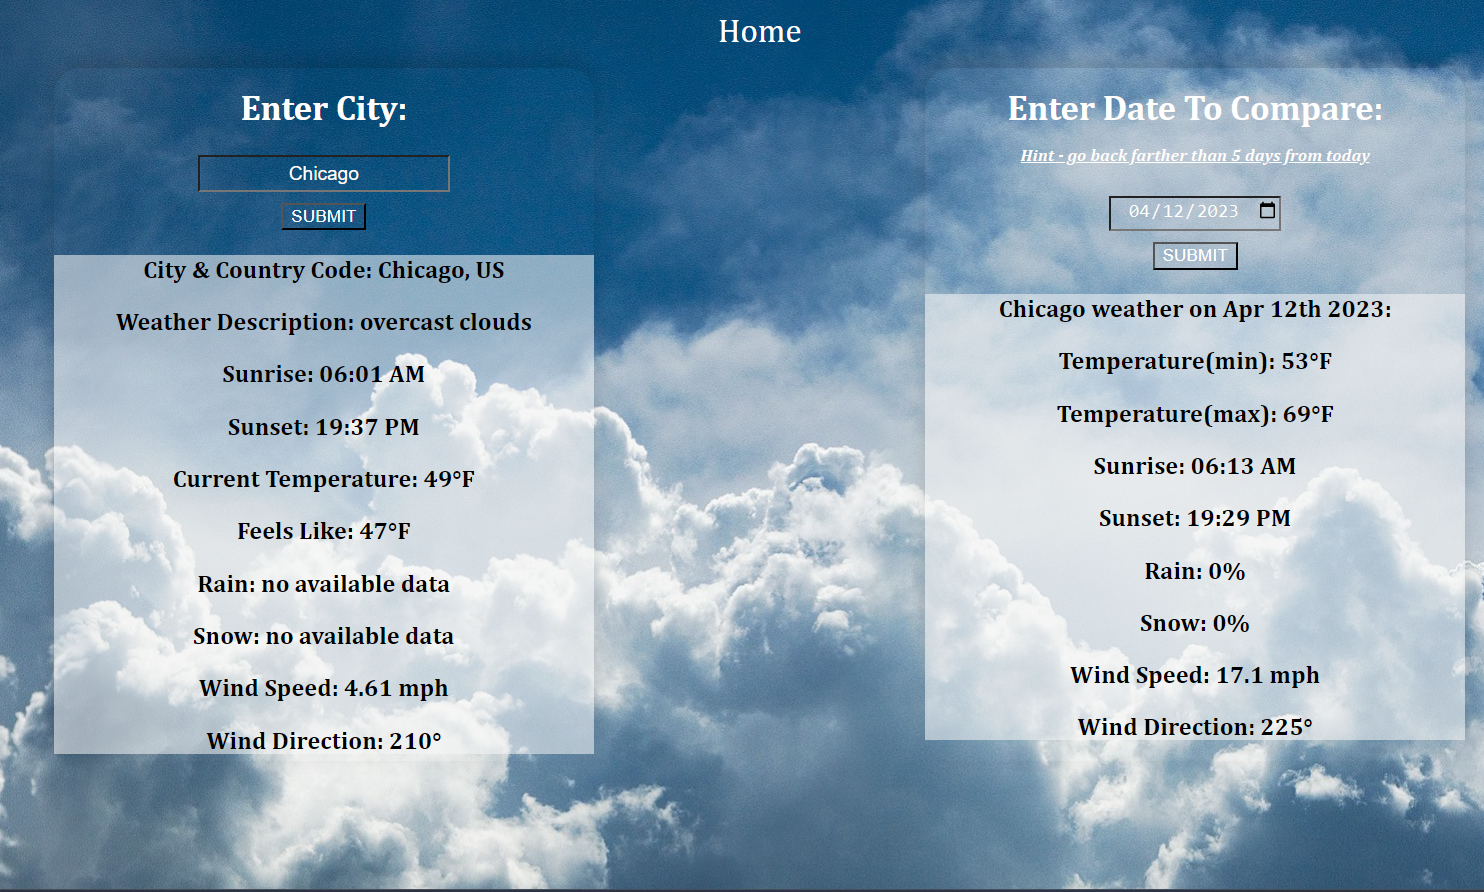
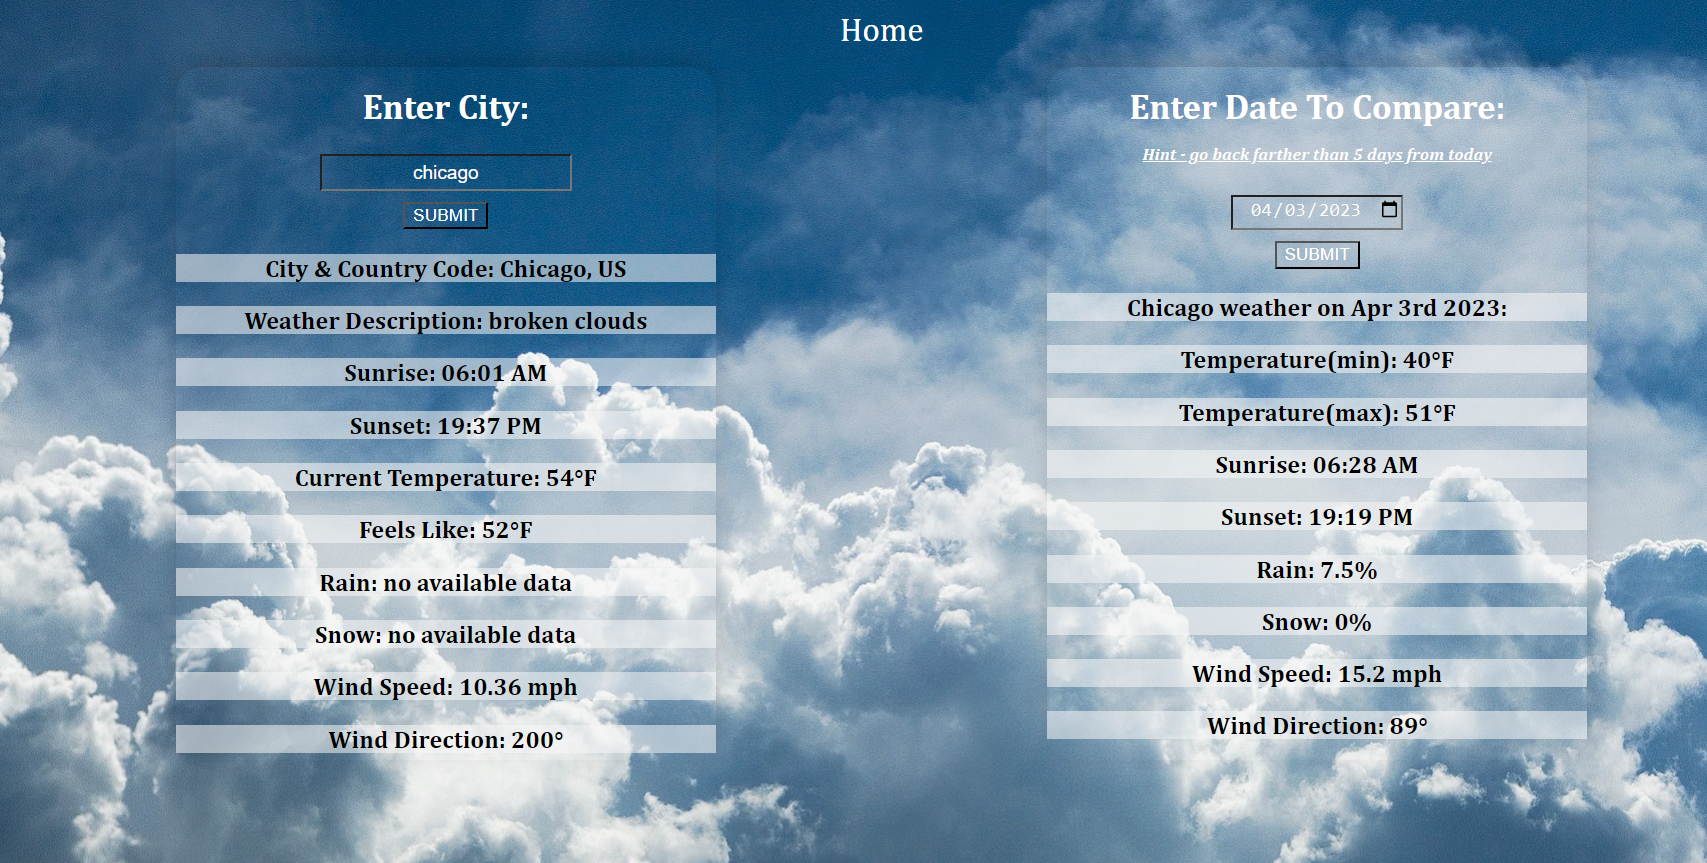
issue of past data fetching resolved

diff --git a/src/pages/form/currentWeather/CurrentWeather.js b/src/pages/form/currentWeather/CurrentWeather.js
@@ -42,10 +42,10 @@ export default function CurrentWeather(props) {
             {props.currentWeather.weather[0].description}
             {/* <img src={iconUrl} alt="an icon describing the state of weather" /> */}
           </h3>
-          <h3> Sunrise: {currentSunriseSliced} AM </h3>
-          <h3> Sunset: {currentSunsetSliced} PM </h3>
           <h3> Current Temperature: {currentTemp.slice(0, 2)}°F </h3>
           <h3> Feels Like: {currentFeelsLikeTemp.slice(0, 2)}°F </h3>
+          <h3> Sunrise: {currentSunriseSliced} AM </h3>
+          <h3> Sunset: {currentSunsetSliced} PM </h3>
           <h3> Rain: {rain ? `${rain} mm` : "no available data"} </h3>
           <h3> Snow: {snow ? `${snow} mm` : "no available data"} </h3>
           <h3> Wind Speed: {wind.speed} mph </h3>

diff --git a/src/App.js b/src/App.js
@@ -36,7 +36,8 @@ export default function App() {
     try {
       if (!startDate && !lat) {
         setCurrentWeather(null)
-        return alert(`please enter a valid date`)
+        return 
+        // alert(`please enter a valid date`)
       }
       const response = await fetch(pastWeatherUrl);
       const pastWeatherData = await response.json();
@@ -61,10 +62,15 @@ export default function App() {
     }
   };
 
-  //how to have no default???
+
   // useEffect(() => {
-  //   getPastWeather();
-  // }, []);
+  //   getCurrentWeather();
+  // }, );
+  
+  useEffect(() => {
+    getPastWeather();
+  }, []);
+
 
   return (
     <div className="app">
